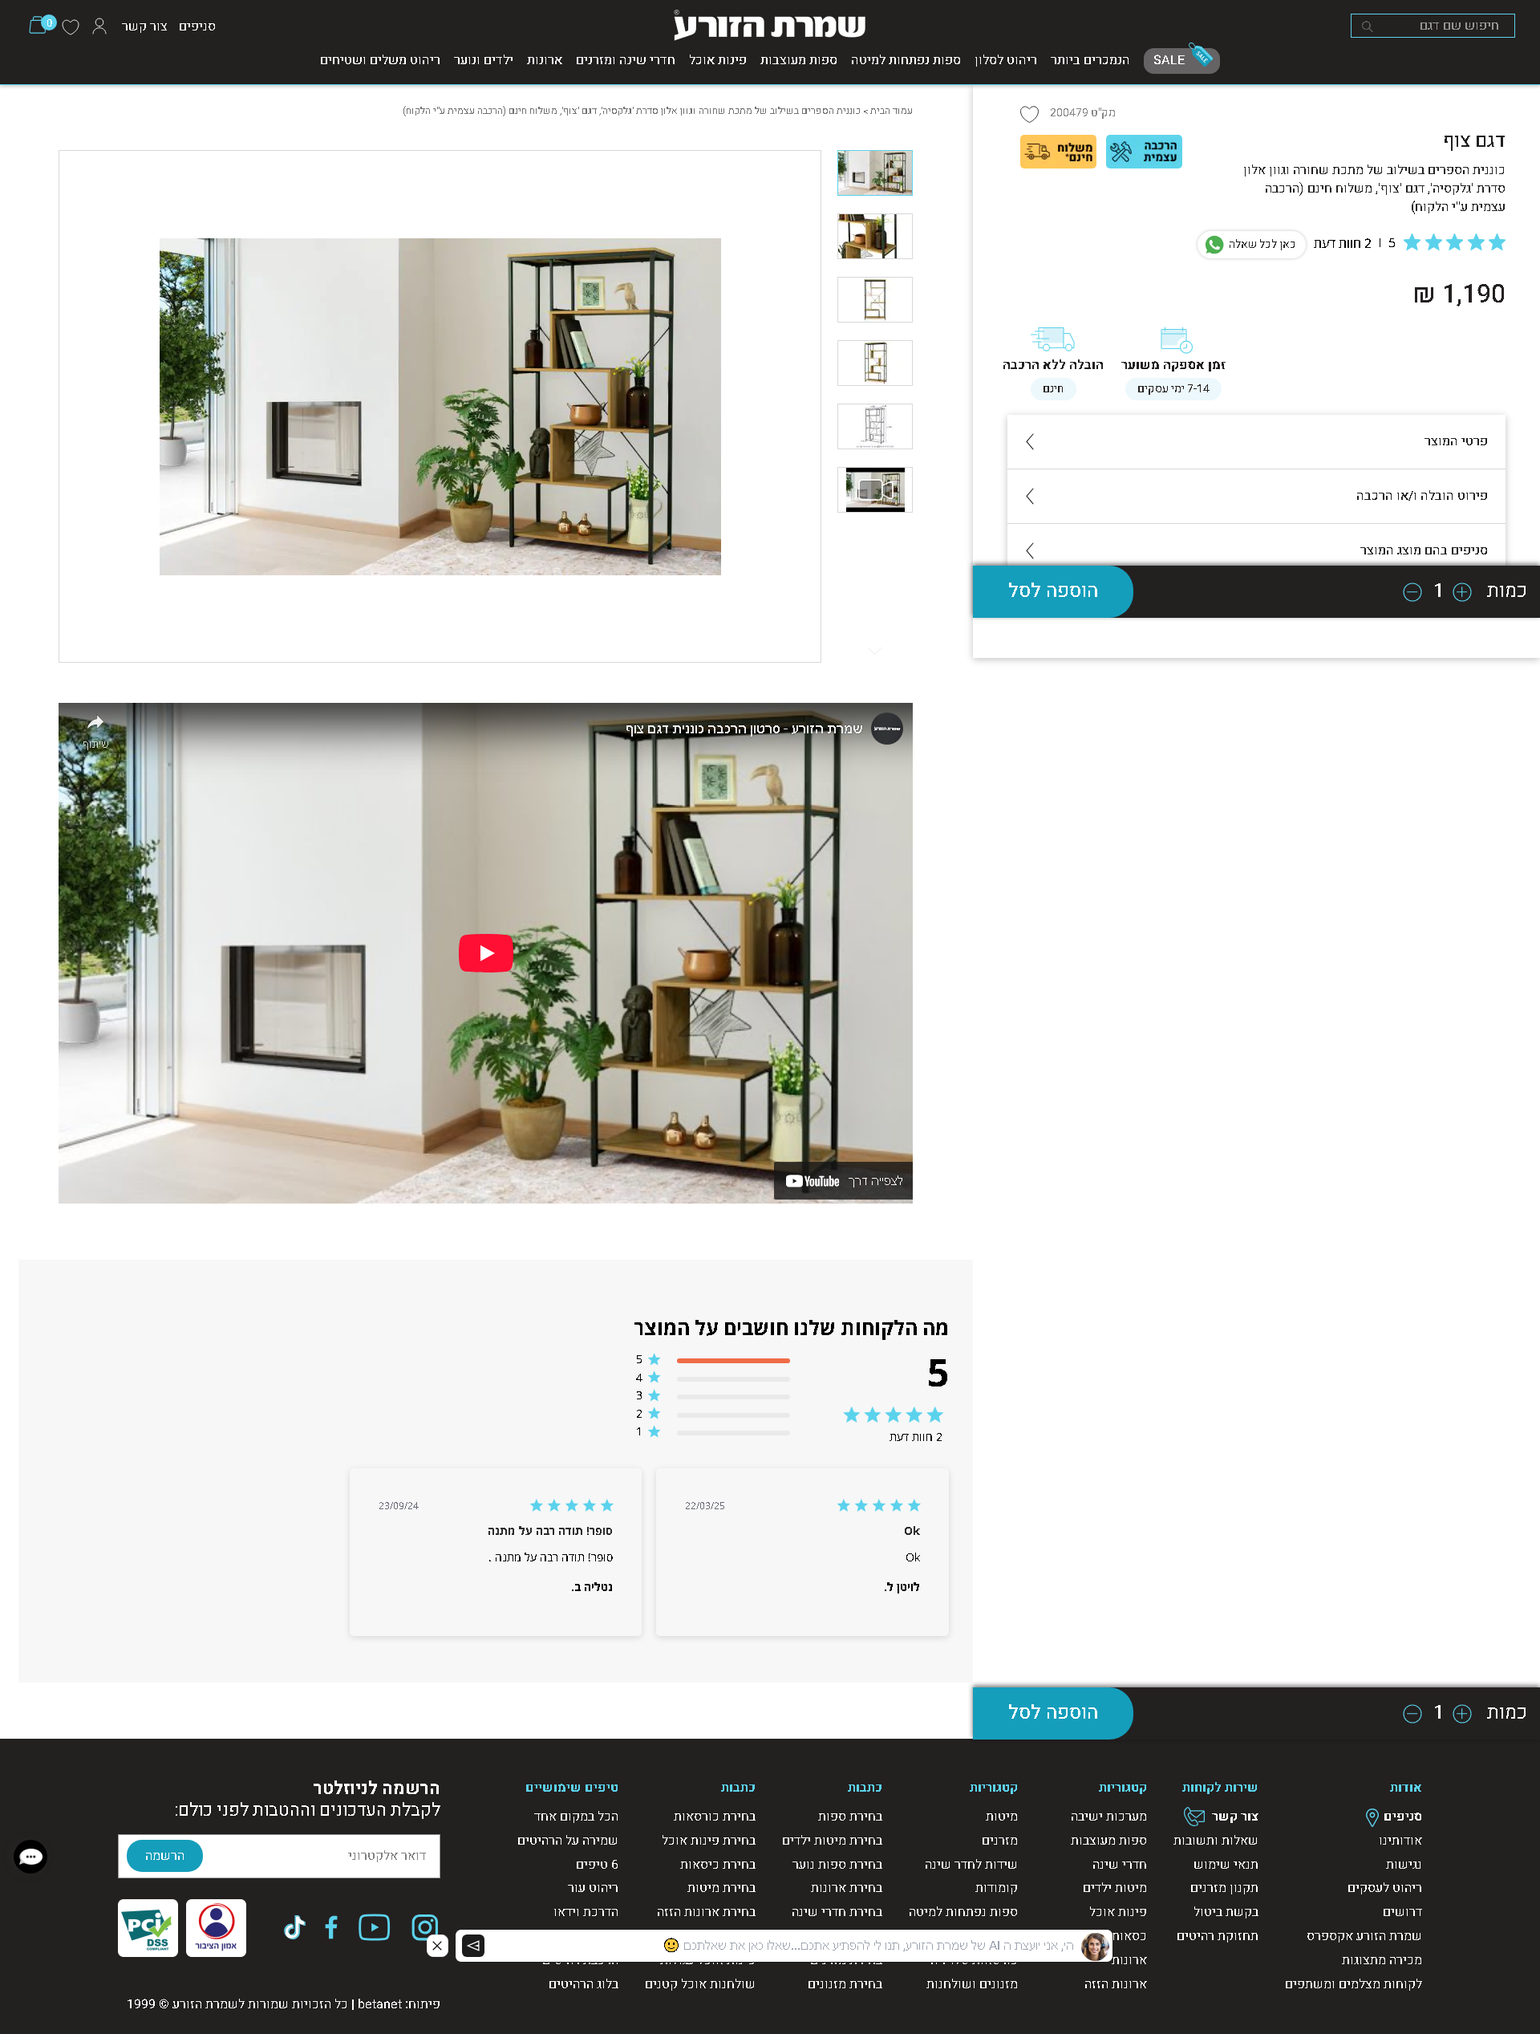
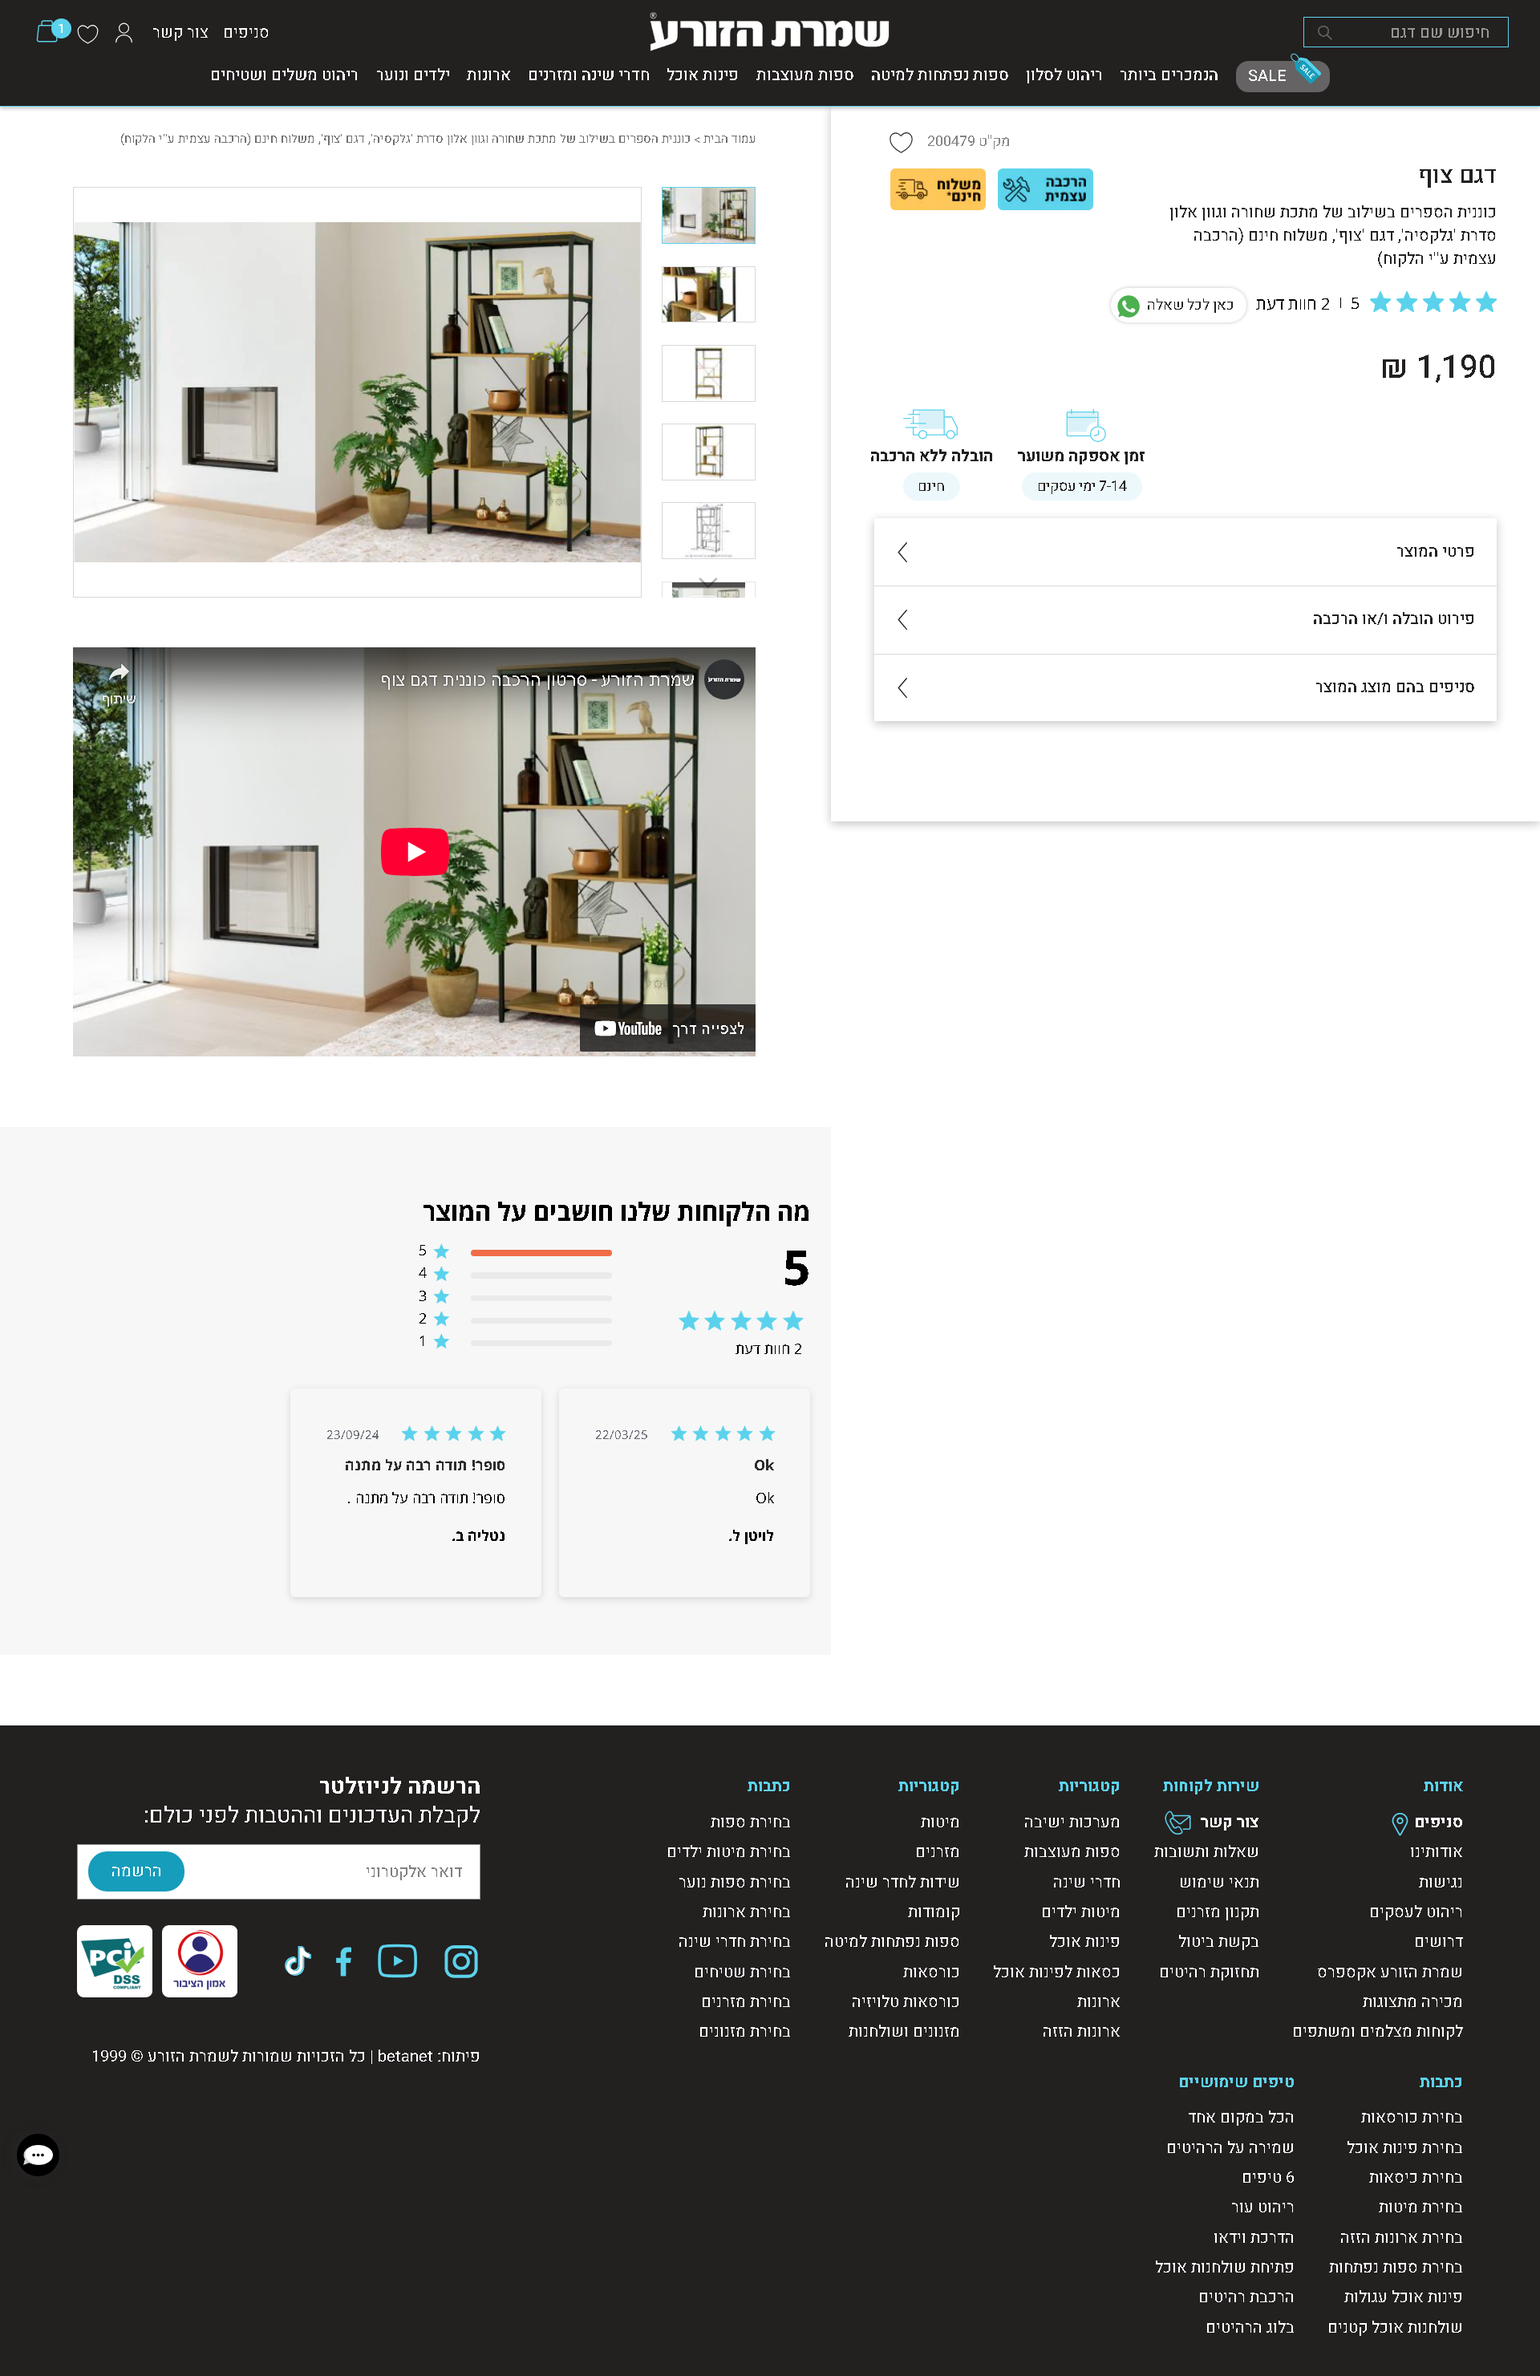
Add demo site files for Shimrat Hazorea bookcase

diff --git a/style.css b/style.css
@@ -1,107 +1,102 @@
 body {
-    font-family: Arial, sans-serif;
     margin: 0;
     padding: 0;
+    font-family: Arial, sans-serif;
     direction: rtl;
-    text-align: right;
     background-color: #f5f5f5;
+    position: relative;
 }
 
-header {
-    text-align: center;
-    padding: 20px;
-}
-
-.logo {
-    max-width: 200px;
-}
-
-.product-page {
+.demo-container {
+    width: 100%;
+    position: relative;
     display: flex;
-    flex-direction: column;
+    justify-content: center;
     align-items: center;
-    max-width: 1200px;
-    margin: 0 auto;
-    padding: 20px;
 }
 
-@media (min-width: 768px) {
-    .product-page {
-        flex-direction: row;
-        justify-content: space-between;
-    }
-}
-
-.product-images {
+.demo-image {
+    display: block;
     width: 100%;
-    max-width: 600px;
-    margin-bottom: 20px;
-}
-
-.main-image {
-    width: 100%;
-    border-radius: 8px;
-}
-
-.thumbnail-images {
-    display: flex;
-    justify-content: space-around;
-    margin-top: 10px;
-}
-
-.thumbnail {
-    width: 30%;
-    border-radius: 4px;
-    cursor: pointer;
-    border: 2px solid transparent;
-}
-
-.thumbnail.active {
-    border-color: #007bff; /* Highlight color */
-}
-
-.product-details {
-    width: 100%;
-    max-width: 500px;
-}
-
-.product-title {
-    font-size: 2.5em;
-    margin-top: 0;
-}
-
-.product-description {
-    line-height: 1.6;
-    color: #555;
-}
-
-.product-price {
-    font-size: 2em;
-    font-weight: bold;
-    color: #333;
-    margin-bottom: 20px;
+    height: auto;
 }
 
 .ar-button {
     display: flex;
     align-items: center;
     justify-content: center;
-    width: 100%;
-    padding: 15px 20px;
-    background-color: #007bff; /* Main button color */
+    padding: 7px 10px;
+    background-color: #2ab8e7;
     color: white;
     border: none;
-    border-radius: 50px;
-    font-size: 1.2em;
+    border-radius: 15px;
+    font-size: 1em;
+    font-weight: bold;
     cursor: pointer;
-    transition: background-color 0.3s ease;
+    transition: all 0.3s ease;
+    position: absolute;
+    top: 24.3%;
+    left: 39%;
+    transform: translate(-50%, -50%);
+    z-index: 10;
+    opacity: 0.8; 
 }
 
 .ar-button:hover {
-    background-color: #0056b3;
+    background-color: #2497c1;
+    opacity: 1; 
 }
 
-.ar-button img {
-    margin-right: 10px;
-    height: 24px;
+/* עיצוב סרגל הקניות */
+.cart-bar {
+    position: fixed;
+    bottom: 0;
+    right: 0;
+    z-index: 20;
+    width: 46.1%;
+}
+
+/* סגנונות חדשים לחלונית הפופ-אפ */
+.popup-overlay {
+    display: none;
+    position: fixed;
+    top: 0;
+    left: 0;
+    width: 100%;
+    height: 100%;
+    background-color: rgba(0, 0, 0, 0.7);
+    z-index: 999;
+    justify-content: center;
+    align-items: center;
+}
+
+.popup-content {
+    position: relative;
+    /* שינוי: הגדלת רוחב ושימוש בגובה יחסי */
+    width: 95%; /* הגדלה ל-95% מהרוחב */
+    height: 95%; /* גובה שיתאים לרוב המסכים */
+    background-color: white;
+    padding: 10px;
+    border-radius: 8px;
+    box-sizing: border-box;
+    /* הוספת גלילה אנכית למקרה שהתוכן גדול מהחלון */
+    overflow-y: auto; 
+}
+
+.popup-content iframe {
+    width: 100%;
+    height: 100%;
+    border: none;
+}
+
+.close-button {
+    position: absolute;
+    top: 10px;
+    right: 10px;
+    font-size: 24px;
+    cursor: pointer;
+    background: none;
+    border: none;
+    color: #333;
+    z-index: 1000;
 }

diff --git a/index.html b/index.html
@@ -8,37 +8,21 @@
 </head>
 <body>
 
-    <header>
-        <img src="images/shw_logo.png" alt="לוגו שמרת הזורע" class="logo">
-    </header>
+    <div class="demo-container">
+        <img src="images/shimrat_hazorea_tsuf_bookcase_product_page_demo.png" alt="דף מוצר שמרת הזורע - ספריה צוף" class="demo-image">
+        <button id="ar-viewer-button" class="ar-button">
+            <span>3D / AR</span>
+        </button>
+    </div>
 
-    <main class="product-page">
-        <div class="product-images">
-            <img src="images/shimrat_hazorea_tsuf_bookcase_main.jpg" alt="ספריית צוף" class="main-image">
-            <div class="thumbnail-images">
-                <img src="images/shimrat_hazorea_tsuf_bookcase_thumb1.jpg" alt="צפיה מקרוב 1" class="thumbnail active">
-                <img src="images/shimrat_hazorea_tsuf_bookcase_thumb2.jpg" alt="צפיה מקרוב 2" class="thumbnail">
-                <img src="images/shimrat_hazorea_tsuf_bookcase_thumb3.jpg" alt="צפיה מקרוב 3" class="thumbnail">
-            </div>
+    <div id="ar-popup" class="popup-overlay">
+        <div class="popup-content">
+            <button class="close-button">&times;</button>
+            <iframe id="ar-iframe" src="about:blank" frameborder="0"></iframe>
         </div>
-
-        <div class="product-details">
-            <h1 class="product-title">ספריית צוף </h1>
-            <p class="product-description">
-                ספריית כוורת בעיצוב מודרני מבית שמרת הזורע. הספרייה מעוצבת בקווים נקיים ומשלבת אחסון נוח.
-                היא מתאימה לסלון, חדר שינה או משרד.
-            </p>
-            <div class="product-price">
-                <span class="price">2,490 ₪</span>
-                <span class="currency">₪</span>
-            </div>
-
-            <button id="ar-viewer-button" class="ar-button">
-                <span>צפו ב-3D וב-AR בביתכם</span>
-                <img src="images/ar_icon.png" alt="AR Icon">
-            </button>
-        </div>
-    </main>
+    </div>
+    
+    <img src="images/cart-bar.PNG" alt="סרגל קניות" class="cart-bar">
 
     <script src="script.js"></script>
 </body>

diff --git a/script.js b/script.js
@@ -1,23 +1,21 @@
-document.addEventListener('DOMContentLoaded', () => {
-    const mainImage = document.querySelector('.main-image');
-    const thumbnails = document.querySelectorAll('.thumbnail');
+document.addEventListener('DOMContentLoaded', function() {
     const arButton = document.getElementById('ar-viewer-button');
+    const arPopup = document.getElementById('ar-popup');
+    const closeButton = document.querySelector('.close-button');
+    const arIframe = document.getElementById('ar-iframe');
 
-    // Handle thumbnail clicks
-    thumbnails.forEach(thumbnail => {
-        thumbnail.addEventListener('click', () => {
-            // Update the main image source
-            mainImage.src = thumbnail.src;
+    const arDemoUrl = 'https://jontimi.github.io/3dModelARviewer/';
 
-            // Update the active class for styling
-            thumbnails.forEach(t => t.classList.remove('active'));
-            thumbnail.classList.add('active');
+    if (arButton && arPopup && closeButton && arIframe) {
+        arButton.addEventListener('click', function(event) {
+            event.preventDefault();
+            arIframe.src = arDemoUrl; // טעינת ה-URL לתוך ה-iframe
+            arPopup.style.display = 'flex'; // הצגת חלונית הפופ-אפ
         });
-    });
 
-    // Handle the AR viewer button click
-    arButton.addEventListener('click', () => {
-        const arViewerUrl = 'https://jontimi.github.io/3dModelARviewer/?model=path_to_your_shimrat_hazorea_tsuf_model.glb';
-        window.open(arViewerUrl, '_blank');
-    });
+        closeButton.addEventListener('click', function() {
+            arPopup.style.display = 'none'; // הסתרת חלונית הפופ-אפ
+            arIframe.src = 'about:blank'; // איפוס ה-iframe כדי למנוע טעינה ברקע
+        });
+    }
 });
